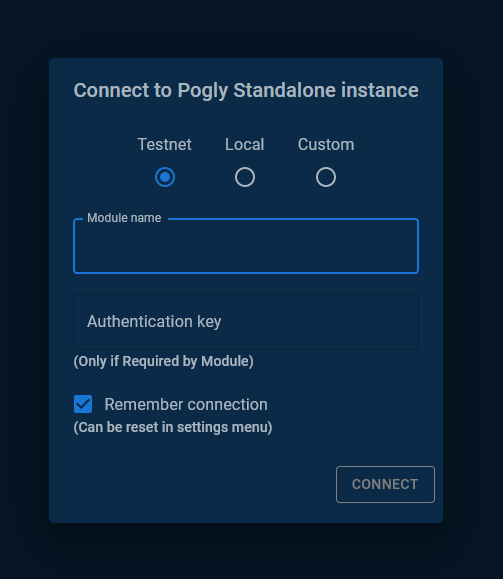
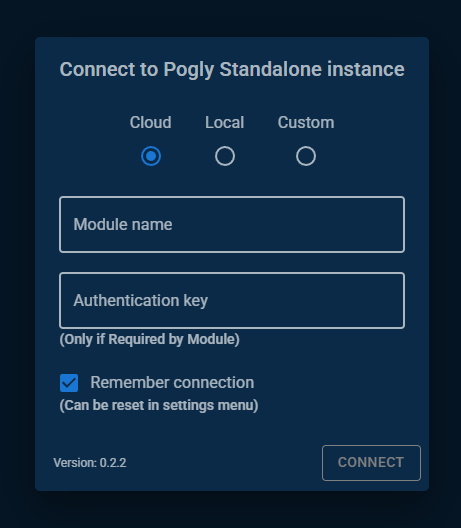
Update firsttimesetup

diff --git a/use/firstTimeSetup.md b/use/firstTimeSetup.md
@@ -1,47 +1,61 @@
 # First Time Setup
-## Getting Connected
-Before you even begin the first time setup, you have to connect to your Pogly Standalone instance. Depending on how you installed, and what choices you made for hosting, this may vary.
+
+## Connecting to your Pogly module for the first time
+
+First you must select where you module is hosted.
+
+- `Cloud` => If module was created by our Discord bot.
+- `Local` => If you are running SpacetimeDB locally and have published your module there.
+- `Custom` => If you have SpacetimeDB running on a separate VPS.
+
+Next, you must enter your module name into the `Module name` field. Since you have not yet done the initial setup, you don't have to worry about `Authentication key`.
+
+**OPTIONAL**: Check `Remember connection` to automatically connect to the module without the need to fill in module name and authentication key.
 
 ![Connection settings](../assets/connection.png)
 
-Fill out the connection dialog with whatever information is pertinent to your installation. For example, if you are self-hosting, you would select `Local` and fill in your module name; whereas if you are using SpacetimeDB's test environment, you would select `Testnet` and fill out the module name.
-
-For first time setup the `Authentication Key` is not required.
-
 ## Configuration
-If this is the first time you've connected to your Pogly Standalone instance, you will be prompted to fill out a configuration dialog.
 
-![config dialog](../assets/first_time_setup.png)
+When connecting to a Pogly module for the first time, you will be prompted with an initial setup form. This is used to set basic settings for your module but they can later be modified from settings after connecting to the module.
+
+**NOTE:** The person who finishes this setup will be marked as the **owner**. Ownership cannot be transferred without wipining/resetting the entire module!
 
 - Twitch Channel => Your twitch stream name here. Example: BobRoss
 - [Element Update Hz](./refreshRate.md) => The rate at which clients push update to the server. Higher means faster but more data.
-- ~~Editor Border => Used to determine spacing around the stream preview on the canvas, depreciated.~~
 - Debug Mode => If enabled, will log every reducer state change. Vastly increases storage consumption.
 - [Authentication Mode](./authentication.md) => If enabled, guests will have to provide the specified key in order to connect.
 - [Strict Mode](./strictMode.md) => If enabled, requires guests to have permissions to create new canvas elements.
 
-Make sure to click the `COPY AUTH TOKEN` and `COPY OVERLAY URL` buttons, saving the data to a file somewhere safe.
+Your identity is **stored in your browser's local storage**. If you change browsers or clear your browser history, **you will lose your identity and cannot get it back**.
+
+Click the `COPY AUTH TOKEN` button and copy paste your token somewhere safe on your computer for safe keeping. You can also copy the overlay URL from there but isn't really necessary.
 
 Once you've set everything up, simply click `Setup` and you're off to the races!
 
-## OBS / Streamlabs Browser Source
-To utilize Pogly in your stream, you will have to make a browser source in your OBS/Streamlabs. 
+![config dialog](../assets/first_time_setup.png)
 
-- URL => Paste the `Overlay URL` here from the first time setup
-- Width => 1920 (1920 is required, if you want to adjust size, scale it after adding the browser source)
-- Height => 1080 (1080 is required, if you want to adjust size, scale it after adding the browser source)
+## OBS / Streamlabs Browser Source
+
+To utilize Pogly in your stream, you will have to make a browser source in your OBS/Streamlabs.
+
+- URL => Paste the `Overlay URL` here from the initial setup.
+  - If you didn't copy the URL: https://standalone.pogly.gg/canvas?module=YOUR_MODULE_NAME_HERE
+- Width => `1920`
+- Height => `1080`
+
+**NOTE:** If you stream in higher resolution, **the browser source size still needs to be 1920x1080!** Once you've finished creating the source, **stretch the source to cover the screen!**
 
 ![obs settings](../assets/obs_browser_source.png)
 
 ## Important!
-Make sure to copy your `Auth Token` and save this somewhere on your computer. If your browser's localStorage get's deleted, you will no longer be saved as the Owner and will need your auth token to redo your authentication via the settings.
 
-The auth token begins with `ey` and will look something like this: 
-```
-eyXXXXXXXXXXXXXXXXXXXXXXXXXXXXXXXXXX.eyXXXXXXXXXXXXXXXXXXXXXXXXXXXXXXXXXXXXXXXXXXXXXXXXXXXXXXXXXXXXXXXXXXXXXXXXXXXXXXXXXXXXXXXXXXXXXXXXXXXXXXXXXXXXXXXXXXXXXXXXXXXXXXXXXXXXXXXXXXXXXXXXXX.XXXXXXXXXXXXXXXXXXXXXXXXXXXXXXXXXXXXXXXXXXXXXXXXXXXXXXXXXXXXXXXXXXXXXXXXXXXXXXXXXXXXXX
-```
+As mentioned above, your identity is stored in your browser local storage which means you can easily lose it. The ownership of the module is tied to that identity and if you lose it, you cannot get your ownership back without resetting the module.
 
-To reimport an auth token, use the "Update Auth Token" button in settings.
+If you saved your token and later your browser history clears and you can no longer connect using the ownership identity, this is how you can reconnect using the saved authentication token.
+
+Connect to your module normally and open settings menu. Under `ADVANCED` you can find `UPDATE AUTH TOKEN` button. Click it and you will be prompted with an input field. Copy paste **the token you saved locally somewhere else** into that field and press `Update`.
+
+Refresh the page and you should now reconnect with the identity that has ownership of the module.
 
 ![settings panel](../assets/settings.png)
 
